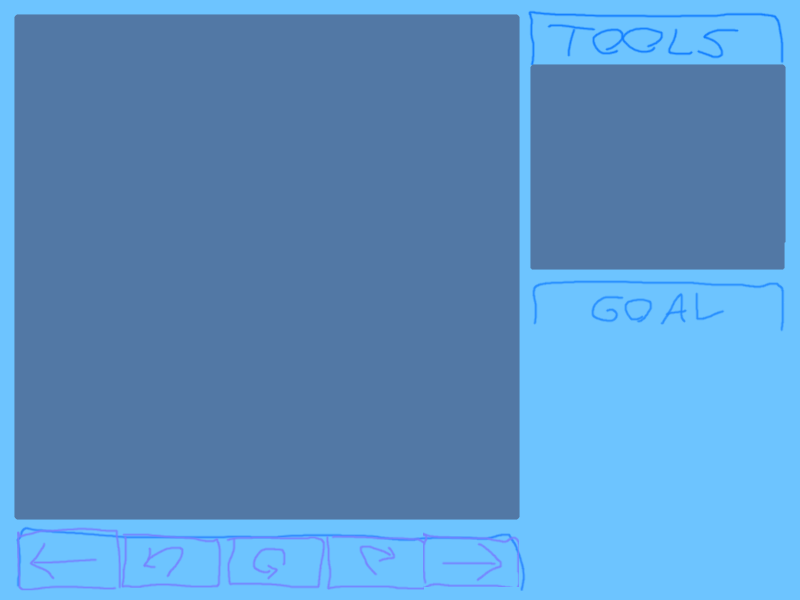
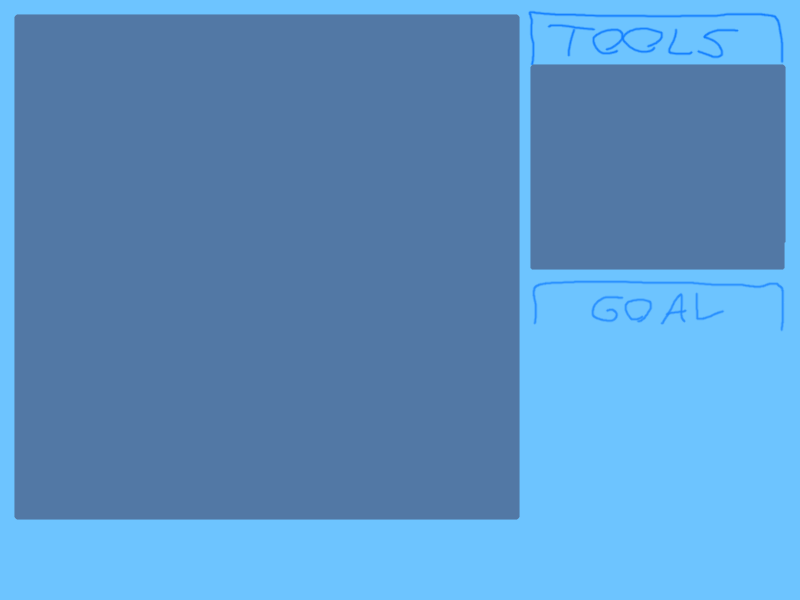
improved ui

Changed region(s): [[0.0, 0.87, 0.6562, 0.99]]

diff --git a/game.js b/game.js
@@ -599,12 +599,27 @@ let held_tile = null;
 
 let extra_draw_code = []
 
+let prevLevel_img = new Image();
+prevLevel_img.src = "prev.png";
+
+let nextLevel_img = new Image();
+nextLevel_img.src = "next.png";
+
+let reset_img = new Image();
+reset_img.src = "reset.png";
+
+let undo_img = new Image();
+undo_img.src = "undo.png";
+
+let redo_img = new Image();
+redo_img.src = "redo.png";
+
 let buttons = [
-  [X_BUTTON_BAR, Y_BUTTON_BAR, TILE*2, TILE, prevLevel],
-  [X_BUTTON_BAR + TILE*2, Y_BUTTON_BAR, TILE*2, TILE, undo],
-  [X_BUTTON_BAR + TILE*4, Y_BUTTON_BAR, TILE*2, TILE, reset],
-  [X_BUTTON_BAR + TILE*6, Y_BUTTON_BAR, TILE*2, TILE, redo],
-  [X_BUTTON_BAR + TILE*8, Y_BUTTON_BAR, TILE*2, TILE, nextLevel],
+  [X_BUTTON_BAR, Y_BUTTON_BAR, TILE*2, TILE, prevLevel, prevLevel_img],
+  [X_BUTTON_BAR + TILE*2, Y_BUTTON_BAR, TILE*2, TILE, undo, undo_img],
+  [X_BUTTON_BAR + TILE*4, Y_BUTTON_BAR, TILE*2, TILE, reset, reset_img],
+  [X_BUTTON_BAR + TILE*6, Y_BUTTON_BAR, TILE*2, TILE, redo, redo_img],
+  [X_BUTTON_BAR + TILE*8, Y_BUTTON_BAR, TILE*2, TILE, nextLevel, nextLevel_img],
 ]
 
 function drawgrid() {
@@ -711,12 +726,13 @@ function draw_victory_area() {
 }
 
 function draw_button(button) {
-  let [x,y,w,h,f] = button
+  let [x,y,w,h,f,spr] = button
   let pressed = isButtonDown('left') && (mouse.x >= x && mouse.x < x + w && mouse.y >= y && mouse.y < y + h)
   if (pressed) {
     ctx.fillStyle = "#5278A5"
     ctx.fillRect(x,y,w,h);
   }
+  ctx.drawImage(spr, x, y)
   ctx.strokeRect(x,y,w,h);
 }
 
@@ -762,7 +778,7 @@ function draw() {
 			held_tile = null;
 		}
   } else if (wasButtonReleased('left') && held_tile === null) {
-    buttons.forEach(([x,y,w,h,f]) => {
+    buttons.forEach(([x,y,w,h,f,spr]) => {
       if (mouse.x >= x && mouse.x < x + w && mouse.y >= y && mouse.y < y + h) {
         f();
       }
